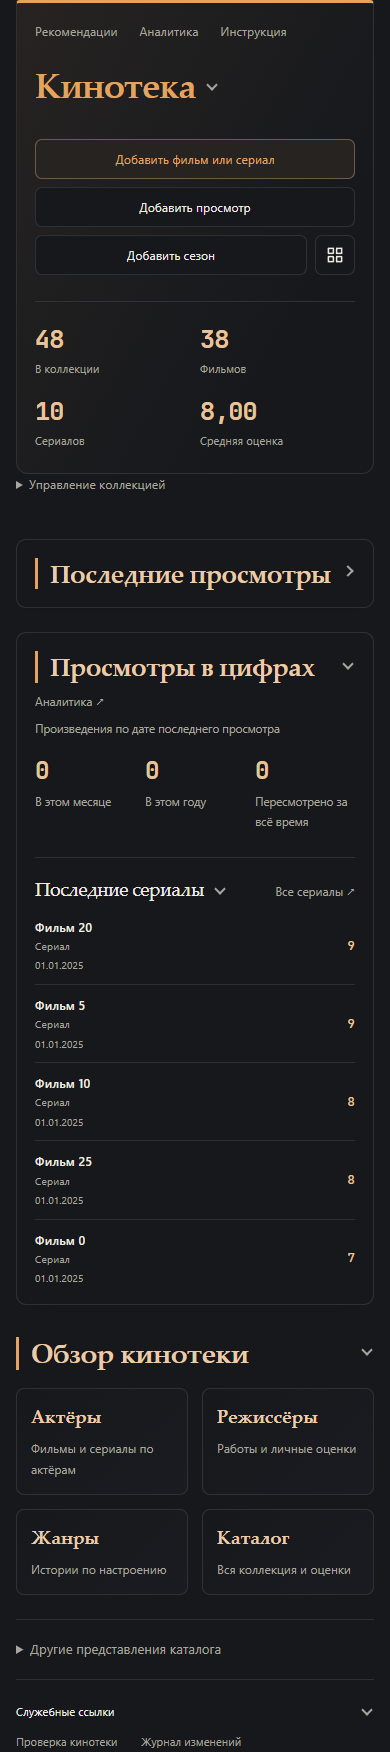
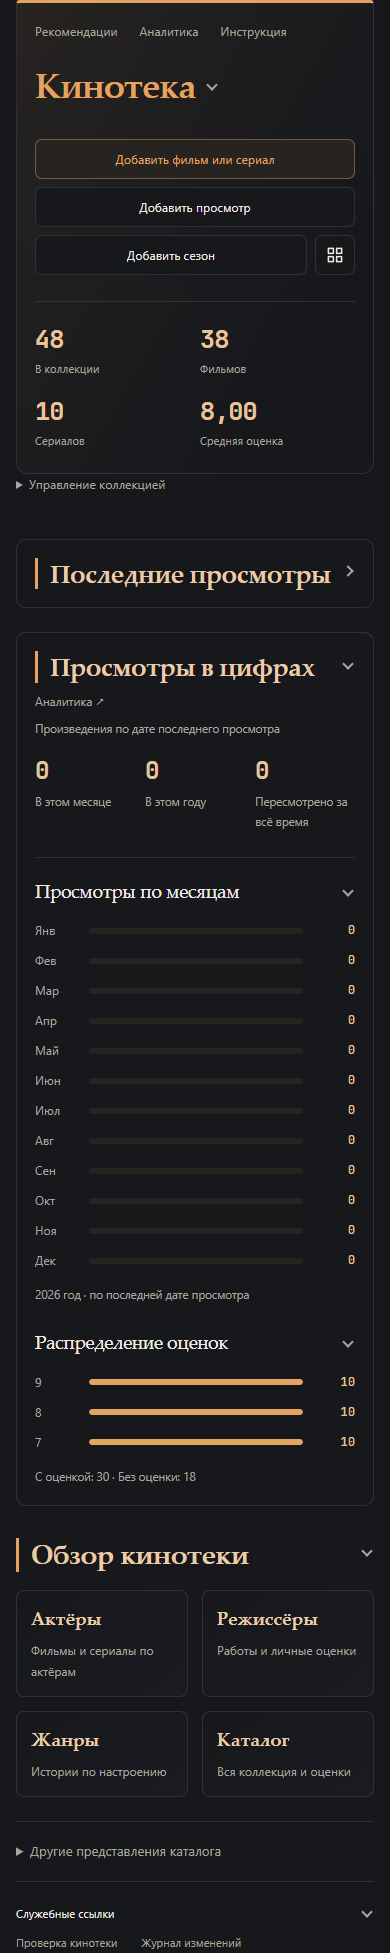
vault backup: 2026-10-09 22:34:03

diff --git a/Кино/_system/kino_home.js b/Кино/_system/kino_home.js
@@ -224,29 +224,29 @@ module.exports = async ({ dv, app, obsidian = {} }) => {
             const cell = el(metrics, 'div', 'kino-home-metric'), value = el(cell, 'strong'); value.dataset.period = key;
             el(cell, 'span', '', label); metricValues.push([key, value]);
         }
-        const serials = el(reading.body, 'section', 'kino-home-serials');
-        const serialHead = el(serials, 'div', 'kino-home-serials-head'); el(serialHead, 'h3', '', 'Последние сериалы');
-        internal(serialHead, 'Все сериалы ↗', 'Кино/_Кино.base#Последние сериалы', 'kino-home-section-link');
-        const serialList = el(serials, 'div', 'kino-home-list');
-        const rowCleanups = [];
-        function rowLink(parent, text, target) {
-            const link = el(parent, 'a', 'internal-link kino-home-row-title', text); link.href = target; link.dataset.href = target;
-            const callback = event => { event.preventDefault(); if (!disposed) app.workspace.openLinkText(target, source, Boolean(event.ctrlKey || event.metaKey)); };
-            link.addEventListener('click', callback); rowCleanups.push(() => link.removeEventListener('click', callback)); return link;
+        const charts = el(reading.body, 'div', 'kino-home-charts');
+        function chart(title, key) {
+            const box = el(charts, 'section', 'kino-home-chart');
+            const heading = el(box, 'h3', '', title);
+            const body = el(box, 'div', 'kino-home-chart-body');
+            const list = el(body, 'div', 'kino-home-chart-list'); list.setAttribute('role', 'list');
+            foldBlock(box, heading, [body], key, title);
+            return { list, body };
         }
-        cleanups.push(() => { for (const cleanup of rowCleanups.splice(0)) cleanup(); });
-        function drawRows(container, items) {
-            container.replaceChildren();
-            if (!items.length) { el(container, 'p', 'kino-home-empty', 'Пока нет произведений в этой подборке.'); return; }
-            for (const item of items) {
-                const row = el(container, 'div', 'kino-home-row'); row.dataset.path = item.file.path; row.dataset.watched = item.watched?.iso || '';
-                const main = el(row, 'div', 'kino-home-row-main');
-                rowLink(main, item.file.basename || item.file.name?.replace(/\.md$/i, '') || item.file.path.split('/').pop().replace(/\.md$/i, ''), item.file.path);
-                el(main, 'span', 'kino-home-row-meta', [item.serial ? 'Сериал' : 'Фильм', item.year].filter(value => value != null && value !== '').join(' · '));
-                const date = el(row, 'time', 'kino-home-row-date', item.watched?.display || 'Без даты');
-                if (item.watched) date.dateTime = item.watched.iso;
-                const score = el(row, 'span', 'kino-home-row-score', item.score == null ? '—' : String(item.score).replace('.', ','));
-                score.setAttribute('aria-label', item.score == null ? 'Оценка не указана' : `Моя оценка: ${item.score}`);
+        const months = chart('Просмотры по месяцам', 'months');
+        const monthCaption = el(months.body, 'p', 'kino-home-caption');
+        const ratings = chart('Распределение оценок', 'ratings');
+        const ratingCaption = el(ratings.body, 'p', 'kino-home-caption');
+        function drawChart(list, entries, empty) {
+            list.replaceChildren();
+            if (!entries.length) { el(list, 'p', 'kino-home-empty', empty); return; }
+            const max = Math.max(1, ...entries.map(entry => entry[1]));
+            for (const [label, count] of entries) {
+                const row = el(list, 'div', 'kino-home-chart-row'); row.setAttribute('role', 'listitem');
+                el(row, 'span', 'kino-home-chart-label', label);
+                const track = el(row, 'span', 'kino-home-chart-track'); track.setAttribute('aria-hidden', 'true');
+                const bar = el(track, 'span', 'kino-home-chart-bar'); bar.style.width = (count / max * 100) + '%';
+                el(row, 'strong', 'kino-home-chart-count', count);
             }
         }
         function draw() {
@@ -261,9 +261,13 @@ module.exports = async ({ dv, app, obsidian = {} }) => {
                 reread: items.filter(item => Number(String(item.fields['Количество просмотров'] ?? '').replace(',', '.')) > 1).length
             };
             for (const [key, node] of metricValues) node.textContent = String(periods[key]);
-            for (const cleanup of rowCleanups.splice(0)) cleanup();
-            const sorted = [...items].sort(recentSort);
-            drawRows(serialList, sorted.filter(item => item.serial).slice(0, 5));
+            const monthNames = ['Янв', 'Фев', 'Мар', 'Апр', 'Май', 'Июн', 'Июл', 'Авг', 'Сен', 'Окт', 'Ноя', 'Дек'];
+            drawChart(months.list, monthNames.map((name, index) => [name, items.filter(item => item.watched?.year === now.getFullYear() && item.watched.month === index + 1).length]));
+            monthCaption.textContent = now.getFullYear() + ' год · по последней дате просмотра';
+            const counts = new Map();
+            for (const score of scores) counts.set(score, (counts.get(score) || 0) + 1);
+            drawChart(ratings.list, [...counts].sort((a, b) => b[0] - a[0]).map(([score, count]) => [String(score).replace('.', ','), count]), 'Пока нет оценок.');
+            ratingCaption.textContent = 'С оценкой: ' + scores.length + ' · Без оценки: ' + (items.length - scores.length);
         }
         draw();
         function schedule() { if (disposed) return; clearTimeout(timer); timer = setTimeout(draw, 120); }
@@ -332,7 +336,6 @@ module.exports = async ({ dv, app, obsidian = {} }) => {
         for (const [block, key, label] of [[recent, 'recent', 'Последние просмотры'], [reading, 'reading', 'Просмотры в цифрах']]) {
             foldBlock(block.box, block.head.querySelector('h2'), [block.body, block.head.querySelector('.kino-home-caption')], key, label);
         }
-        foldBlock(serials, serialHead.querySelector('h3'), [serialList], 'serials', 'Последние сериалы');
         foldBlock(overviews, overviews.querySelector('h2'), [overviewLinks], 'overview', 'Обзор кинотеки');
         foldBlock(footer, footer, [...footer.querySelectorAll('a')], 'footer', 'Служебные ссылки');
         if (!disposed) root.dataset.ready = 'true';

diff --git a/Кино/_system/kino-home.css b/Кино/_system/kino-home.css
@@ -131,3 +131,16 @@
 }
 @media(pointer:coarse) { .kino-home-ui.kino-home-ui :is(button,summary,.kino-home-action,.kino-home-overview>a) { min-height: 44px; } }
 @media(pointer:coarse) { .kino-home-ui.kino-home-ui .kino-home-action.is-icon { flex-basis: 44px; width: 44px; height: 44px; } }
+
+/* Statistics panels use the same heading controls as the home sections. */
+.kino-home-ui.kino-home-ui .kino-home-charts { display: grid; grid-template-columns: repeat(2,minmax(0,1fr)); gap: 24px; border-top: 1px solid var(--home-line); padding-top: 20px; }
+.kino-home-ui.kino-home-ui .kino-home-chart { min-width: 0; }
+.kino-home-ui.kino-home-ui .kino-home-chart h3 { margin: 0 0 16px; font: 500 19px/1.4 var(--home-serif) !important; color: var(--text-normal) !important; }
+.kino-home-ui.kino-home-ui .kino-home-chart-list { display: grid; gap: 9px; }
+.kino-home-ui.kino-home-ui .kino-home-chart-row { display: grid; grid-template-columns: 42px minmax(0,1fr) 40px; align-items: center; gap: 12px; min-width: 0; font-size: .75em; }
+.kino-home-ui.kino-home-ui .kino-home-chart-label { color: var(--text-muted); overflow-wrap: anywhere; }
+.kino-home-ui.kino-home-ui .kino-home-chart-track { display: block; height: 6px; overflow: hidden; border-radius: 4px; background: var(--home-tint); }
+.kino-home-ui.kino-home-ui .kino-home-chart-bar { display: block; height: 100%; border-radius: inherit; background: var(--home-accent); }
+.kino-home-ui.kino-home-ui .kino-home-chart-count { text-align: right; color: var(--home-number-color); font: 500 1em/1.4 var(--home-numbers); font-variant-numeric: tabular-nums; }
+.kino-home-ui.kino-home-ui .kino-home-chart-body>.kino-home-caption { margin-top: 14px; }
+@container kino-home (max-width: 600px) { .kino-home-ui.kino-home-ui .kino-home-charts { grid-template-columns: minmax(0,1fr); } }

diff --git a/Кино/_system/Редизайн — прогресс.md b/Кино/_system/Редизайн — прогресс.md
@@ -5,6 +5,14 @@ obsidianUIMode: preview
 
 Обновлено: 09.10.2026. **Главная кинотеки по образцу Книг завершена.** Основной редизайн, компактные строки, шапка и выбор года тоже завершены; массовые миграции повторно не выполнять. При «продолжай» сначала прочитать этот файл и актуальный запрос.
 
+## Просмотры в цифрах: статистика вместо сериалов — 09.10.2026
+
+- **Запрос завершён:** список «Последние сериалы» удалён из блока «Просмотры в цифрах». Вместо него добавлены два сворачиваемых раздела: просмотры по 12 месяцам текущего года и распределение точных личных оценок, включая дробные и нулевые. Счётчики месяца, года и пересмотренных произведений сохранены.
+- Месячная статистика считает произведения по их последней корректной дате просмотра, а не все события истории; это явно подписано. Распределение использует числовые оценки, показывает число с оценкой и без неё, корректно обновляется при изменении заметок. Для отсутствующих оценок показано пустое состояние.
+- Сериалы по-прежнему доступны через другие представления каталога. Новые разделы сворачиваются заголовком, доступны с клавиатуры и сохраняют состояния. Данные произведений и определения базы не менялись.
+- Изменены kino_home.js, kino-home.css и существующие проверки home-ui/design-ui. Резервная копия: redesign-backups/home-stats-20261009/before.zip.
+- **12/12 проверок проходят:** home-ui 11/11 и сценарий главной design-ui 1/1. Проверены точные количества и обновление оценок, месячные итоги, пустые данные, сохранение сворачивания и команды. Адаптация 390/768/1440 px и панель 330 px проходит; телефонное превью просмотрено.
+
 ## Последние просмотры: готовые карточки базы — 09.10.2026
 
 - **Запрос завершён:** удалена ссылка «Весь каталог ↗» из блока «Последние просмотры». Вместо собственного списка строк встроено существующее представление Кино/_Кино.base#Последние: Dynamic Views, лимит 20, постеры, сортировка по просмотру и оценке. Определение базы и сведения о произведениях не изменялись.
